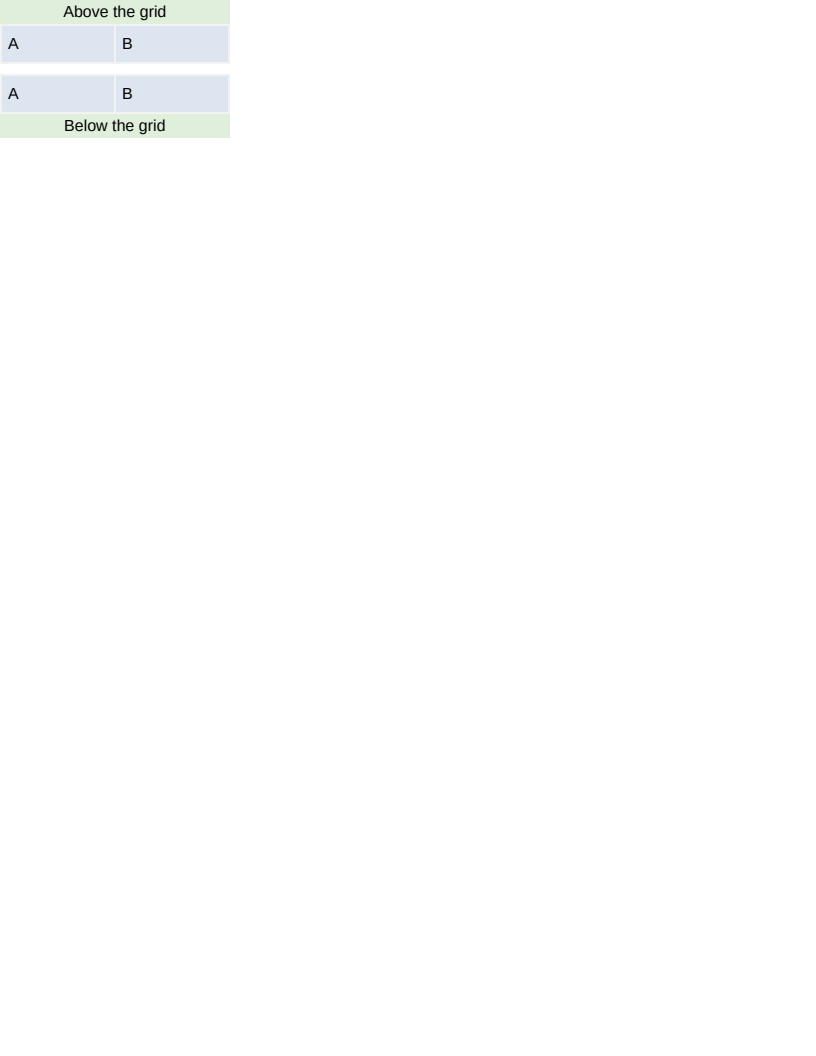
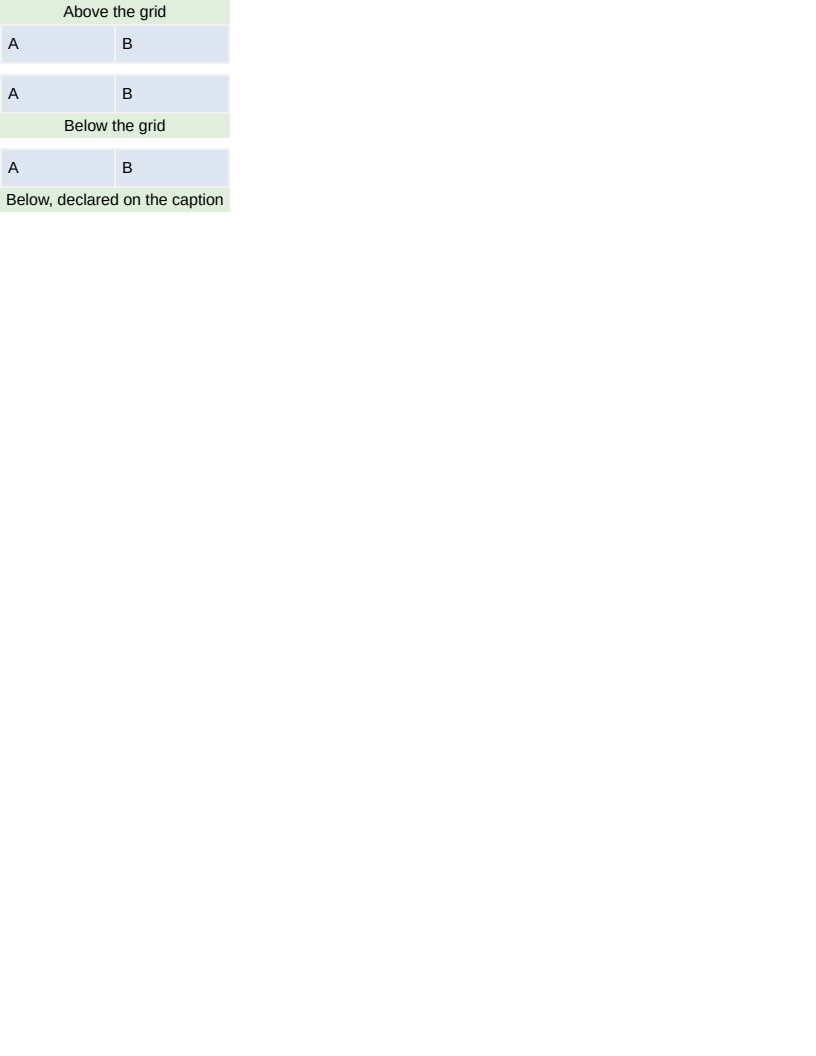
Read caption-side from the caption it applies to
CSS puts `caption-side` on the table-caption box and inherits it, so it can be written on the
table or on the caption. Only the first reached anything: `TableLayout` read it off the table's own
style, and the property did not inherit, so `caption { caption-side: bottom }` was silently a no-op.

Not an obscure spelling. `<caption align="bottom">` maps onto exactly that declaration, which is
how a legacy document asks for it at all.

`table/caption_side` gains a third table declaring it in the other place, exact on all 20 boxes and
still pixel-identical.

Changed region(s): [[0.0, 0.125, 0.3064, 0.2188]]

diff --git a/src/Krilla.Html.Tests/Inputs/table/caption_side/input.css b/src/Krilla.Html.Tests/Inputs/table/caption_side/input.css
@@ -6,3 +6,11 @@ caption { background-color: #e0efdc; }
 #top { caption-side: top; }
 
 #bottom { caption-side: bottom; }
+
+/*
+  The property applies to the caption box and inherits, so it can be written in either place. This
+  is the half that reached nothing: the side was read off the TABLE's style alone, which made a
+  declaration on the caption itself — and therefore `<caption align="bottom">`, which is exactly
+  that declaration — silently a no-op.
+*/
+#own { caption-side: bottom; }

diff --git a/src/Krilla.Html.Tests/Inputs/table/caption_side/input.html b/src/Krilla.Html.Tests/Inputs/table/caption_side/input.html
@@ -6,3 +6,7 @@
   <caption>Below the grid</caption>
   <tr><td>A</td><td>B</td></tr>
 </table>
+<table id="declared">
+  <caption id="own">Below, declared on the caption</caption>
+  <tr><td>A</td><td>B</td></tr>
+</table>

diff --git a/src/Krilla.Html/Styling/StyleResolver.cs b/src/Krilla.Html/Styling/StyleResolver.cs
@@ -287,11 +287,13 @@ static class StyleResolver
                 .Equals("collapse", StringComparison.OrdinalIgnoreCase)
                 ? BorderCollapseKind.Collapse
                 : parent.BorderCollapse,
-            CaptionSide = declaration.GetPropertyValue("caption-side")
-                .Trim()
-                .Equals("bottom", StringComparison.OrdinalIgnoreCase)
-                ? CaptionSideKind.Bottom
-                : CaptionSideKind.Top,
+            // Inherited, because CSS says so and because that is the only way a declaration on the
+            // TABLE reaches the caption it is written for. It is read off the caption's own box,
+            // so `caption { caption-side: bottom }` and `<caption align="bottom">` — which is
+            // exactly that declaration — work as well as the usual spelling on the table.
+            CaptionSide = ParseCaptionSide(
+                declaration.GetPropertyValue("caption-side"),
+                parent.CaptionSide),
             ListStylePosition = ParseListPosition(
                 declaration.GetPropertyValue("list-style-position"),
                 parent.ListStylePosition),
@@ -440,6 +442,14 @@ static class StyleResolver
     /// is measured and painted — font, colour, alignment, white space — is inherited. So the
     /// parent's resolved style is not an approximation here, it is the answer.
     /// </remarks>
+    static CaptionSideKind ParseCaptionSide(string value, CaptionSideKind inherited) =>
+        value.Trim().ToLowerInvariant() switch
+        {
+            "bottom" => CaptionSideKind.Bottom,
+            "top" => CaptionSideKind.Top,
+            _ => inherited
+        };
+
     public static ComputedStyle ForText(ComputedStyle parent) =>
         parent;
 

diff --git a/src/Krilla.Html/Layout/TableLayout.cs b/src/Krilla.Html/Layout/TableLayout.cs
@@ -103,7 +103,7 @@ static class TableLayout
         var top = 0f;
 
         if (grid.Caption is {} caption &&
-            style.CaptionSide == CaptionSideKind.Top)
+            caption.Style.CaptionSide == CaptionSideKind.Top)
         {
             top = BlockLayout.Layout(caption, contentX, contentY, contentWidth, fonts);
         }
@@ -124,7 +124,7 @@ static class TableLayout
         // against Chrome, where a bottom caption sits exactly as far under the last row as a top
         // one sits above the first.
         if (grid.Caption is {} below &&
-            style.CaptionSide == CaptionSideKind.Bottom)
+            below.Style.CaptionSide == CaptionSideKind.Bottom)
         {
             contentHeight += BlockLayout.Layout(
                 below,

diff --git a/src/Krilla.Html.Tests/Inputs/table/caption_side/compare.md b/src/Krilla.Html.Tests/Inputs/table/caption_side/compare.md
@@ -2,8 +2,8 @@
 
 # table/caption_side
 
-Pixel-identical to Chrome. Two tables differing in one declaration, so what is measured is the
-property rather than the look of a caption.
+Pixel-identical to Chrome. Three tables, the first two differing in one declaration, so what is
+measured is the property rather than the look of a caption.
 
 A caption is a block laid out at the table's own width, above or below the grid, inside the table's
 box. The measurement that matters is the gap: Chrome puts a bottom caption exactly as far under the
@@ -14,10 +14,17 @@ spacing, which the grid had already added — the alternative, adding a gap of i
 `#top` states the default explicitly. It is there so the two rows differ in exactly one
 declaration, which is what makes a difference between them attributable.
 
-What to look at: the 2px band between the caption and the grid in each table. Four pixels in either
-one is the edge spacing being applied twice.
+`#declared` writes the property in the other place CSS allows: on the CAPTION rather than on the
+table. That half reached nothing — the side was read off the table's style alone — and it is not a
+spelling nobody uses, because `<caption align="bottom">` maps onto exactly that declaration. The
+property is inherited now and read off the caption's own box, which is what makes both spellings
+work for the same reason.
 
-**Boxes**: 14 matched, worst offset 0.00px, worst size 0.00px.
+What to look at: the 2px band between the caption and the grid in each table. Four pixels in any of
+them is the edge spacing being applied twice, and `#declared`'s caption back above its grid is the
+property being read off the table again.
+
+**Boxes**: 20 matched, worst offset 0.00px, worst size 0.00px.
 
 | Reference (Chrome) | Krilla.Html |
 | --- | --- |

diff --git a/src/Krilla.Html.Tests/Inputs/table/caption_side/notes.md b/src/Krilla.Html.Tests/Inputs/table/caption_side/notes.md
@@ -1,7 +1,7 @@
 # table/caption_side
 
-Pixel-identical to Chrome. Two tables differing in one declaration, so what is measured is the
-property rather than the look of a caption.
+Pixel-identical to Chrome. Three tables, the first two differing in one declaration, so what is
+measured is the property rather than the look of a caption.
 
 A caption is a block laid out at the table's own width, above or below the grid, inside the table's
 box. The measurement that matters is the gap: Chrome puts a bottom caption exactly as far under the
@@ -12,5 +12,12 @@ spacing, which the grid had already added — the alternative, adding a gap of i
 `#top` states the default explicitly. It is there so the two rows differ in exactly one
 declaration, which is what makes a difference between them attributable.
 
-What to look at: the 2px band between the caption and the grid in each table. Four pixels in either
-one is the edge spacing being applied twice.
+`#declared` writes the property in the other place CSS allows: on the CAPTION rather than on the
+table. That half reached nothing — the side was read off the table's style alone — and it is not a
+spelling nobody uses, because `<caption align="bottom">` maps onto exactly that declaration. The
+property is inherited now and read off the caption's own box, which is what makes both spellings
+work for the same reason.
+
+What to look at: the 2px band between the caption and the grid in each table. Four pixels in any of
+them is the edge spacing being applied twice, and `#declared`'s caption back above its grid is the
+property being read off the table again.
